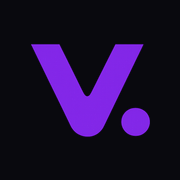
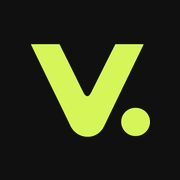
[verified] feat: atualiza ícones do Vértice para a paleta Tera

Changed region(s): [[0.1667, 0.2222, 0.8056, 0.7778], [0.6667, 0.5833, 0.8333, 0.7778]]

diff --git a/app/manifest.ts b/app/manifest.ts
@@ -23,11 +23,11 @@ export default function manifest(): MetadataRoute.Manifest {
     // Sem `orientation`: o Kanban se beneficia de landscape e o apontamento de
     // portrait. Travar prejudica um dos dois.
     icons: [
-      { src: '/icons/icon-192.png', sizes: '192x192', type: 'image/png', purpose: 'any' },
-      { src: '/icons/icon-512.png', sizes: '512x512', type: 'image/png', purpose: 'any' },
+      { src: '/icons/icon-192-tera.png', sizes: '192x192', type: 'image/png', purpose: 'any' },
+      { src: '/icons/icon-512-tera.png', sizes: '512x512', type: 'image/png', purpose: 'any' },
       // Maskable com fundo sólido: o Android recorta no formato do launcher.
-      { src: '/icons/maskable-192.png', sizes: '192x192', type: 'image/png', purpose: 'maskable' },
-      { src: '/icons/maskable-512.png', sizes: '512x512', type: 'image/png', purpose: 'maskable' },
+      { src: '/icons/maskable-192-tera.png', sizes: '192x192', type: 'image/png', purpose: 'maskable' },
+      { src: '/icons/maskable-512-tera.png', sizes: '512x512', type: 'image/png', purpose: 'maskable' },
     ],
     // Share Target: faz o Vertice aparecer na folha de compartilhamento do
     // Android quando o app esta instalado. Metodo GET porque a rota so abre um
@@ -49,13 +49,13 @@ export default function manifest(): MetadataRoute.Manifest {
         name: 'Novo apontamento',
         short_name: 'Apontar',
         url: '/apontamento',
-        icons: [{ src: '/icons/shortcut-apontar.png', sizes: '96x96', type: 'image/png' }],
+        icons: [{ src: '/icons/shortcut-apontar-tera.png', sizes: '96x96', type: 'image/png' }],
       },
       {
         name: 'Kanban',
         short_name: 'Kanban',
         url: '/kanban',
-        icons: [{ src: '/icons/shortcut-kanban.png', sizes: '96x96', type: 'image/png' }],
+        icons: [{ src: '/icons/shortcut-kanban-tera.png', sizes: '96x96', type: 'image/png' }],
       },
     ],
   }

diff --git a/lib/pwa-splash.test.ts b/lib/pwa-splash.test.ts
@@ -28,9 +28,27 @@ describe('splash screens do iOS', () => {
 
   it('todo PNG referenciado existe em public/', () => {
     const faltando = doScript
-      .map((a) => `public/icons/splash-${a.split('@')[0]}.png`)
+      .map((a) => `public/icons/splash-${a.split('@')[0]}-tera.png`)
       .filter((caminho) => !existsSync(join(raiz, caminho)))
     expect(faltando, `rode \`npm run icons\`: ${faltando.join(', ')}`).toEqual([])
+  })
+
+  it('gera ícones Tera com nomes versionados para invalidar caches de launcher', () => {
+    const script = readFileSync(join(raiz, 'scripts/gerar-icones.mjs'), 'utf8')
+    const manifest = readFileSync(join(raiz, 'app/manifest.ts'), 'utf8')
+    const layout = readFileSync(join(raiz, 'app/layout.tsx'), 'utf8')
+    const worker = readFileSync(join(raiz, 'public/sw.js'), 'utf8')
+    const offline = readFileSync(join(raiz, 'app/offline/page.tsx'), 'utf8')
+
+    expect(script).toContain("const COR_SIMBOLO = '#D7F75B'")
+    expect(script).toContain('icon-${tamanho}-tera.png')
+    expect(script).toContain('maskable-${tamanho}-tera.png')
+    expect(manifest).toContain('/icons/icon-192-tera.png')
+    expect(manifest).toContain('/icons/maskable-512-tera.png')
+    expect(layout).toContain('/icon.png?v=tera-20260811')
+    expect(layout).toContain('/apple-icon.png?v=tera-20260811')
+    expect(worker).toContain('/icons/icon-192-tera.png')
+    expect(offline).toContain('/icons/icon-192-tera.png')
   })
 
   it('cobre pelo menos um aparelho de cada densidade', () => {

diff --git a/app/layout.tsx b/app/layout.tsx
@@ -34,8 +34,12 @@ export const metadata: Metadata = {
   metadataBase: new URL(process.env.NEXT_PUBLIC_APP_URL ?? 'http://localhost:3000'),
   title: 'Vértice · Motor de Produtividade',
   description: 'Controle diário de apontamentos',
-  // As convenções app/icon.png e app/apple-icon.png expõem a marca atual nos
-  // navegadores e no iOS sem duplicar configuração de metadata.
+  // URL versionada força navegador e iOS a abandonarem favicons/touch icons
+  // antigos mesmo quando já foram instalados ou persistidos em cache local.
+  icons: {
+    icon: [{ url: '/icon.png?v=tera-20260811', type: 'image/png', sizes: '512x512' }],
+    apple: [{ url: '/apple-icon.png?v=tera-20260811', type: 'image/png', sizes: '180x180' }],
+  },
   appleWebApp: {
     capable: true,
     title: 'Vértice',
@@ -47,7 +51,7 @@ export const metadata: Metadata = {
     // o aparelho — o iOS não redimensiona, ou casa ou cai no branco. As medidas
     // são em pontos CSS (pixel físico ÷ dpr).
     startupImage: APARELHOS_IOS.map(({ largura, altura, dpr }) => ({
-      url: `/icons/splash-${largura}x${altura}.png`,
+      url: `/icons/splash-${largura}x${altura}-tera.png`,
       media: `(device-width: ${largura / dpr}px) and (device-height: ${altura / dpr}px) and (-webkit-device-pixel-ratio: ${dpr})`,
     })),
   },

diff --git a/public/sw.js b/public/sw.js
@@ -21,7 +21,7 @@ self.addEventListener('install', (event) => {
   // chunk que a página ainda vai pedir sumir (404 de chunk). A troca acontece
   // quando o usuário aceita o aviso de nova versão, via SKIP_WAITING.
   event.waitUntil(
-    caches.open(CACHE_NAME).then((cache) => cache.addAll([OFFLINE_URL, '/icons/icon-192.png']))
+    caches.open(CACHE_NAME).then((cache) => cache.addAll([OFFLINE_URL, '/icons/icon-192-tera.png']))
   )
 })
 
@@ -53,8 +53,8 @@ self.addEventListener('push', (event) => {
   event.waitUntil(
     self.registration.showNotification(titulo, {
       body: dados.mensagem || '',
-      icon: '/icons/icon-192.png',
-      badge: '/icons/icon-192.png',
+      icon: '/icons/icon-192-tera.png',
+      badge: '/icons/icon-192-tera.png',
       // A tag agrupa: dez avisos do mesmo card viram um, em vez de dez linhas
       // na central de notificacoes do sistema.
       tag: dados.link || 'vertice',

diff --git a/app/offline/page.tsx b/app/offline/page.tsx
@@ -36,7 +36,7 @@ export default function OfflinePage() {
       }}
     >
       {/* eslint-disable-next-line @next/next/no-img-element */}
-      <img src="/icons/icon-192.png" alt="" width={72} height={72} style={{ borderRadius: 8 }} />
+      <img src="/icons/icon-192-tera.png" alt="" width={72} height={72} style={{ borderRadius: 8 }} />
       <h1 style={{ fontSize: '1.25rem', fontWeight: 600, margin: 0 }}>Sem conexão</h1>
       <p style={{ margin: 0, maxWidth: '28rem', lineHeight: 1.6, color: 'rgba(246,246,248,.7)', fontSize: '.9rem' }}>
         O Vértice precisa de internet para carregar seus apontamentos. Assim que a
